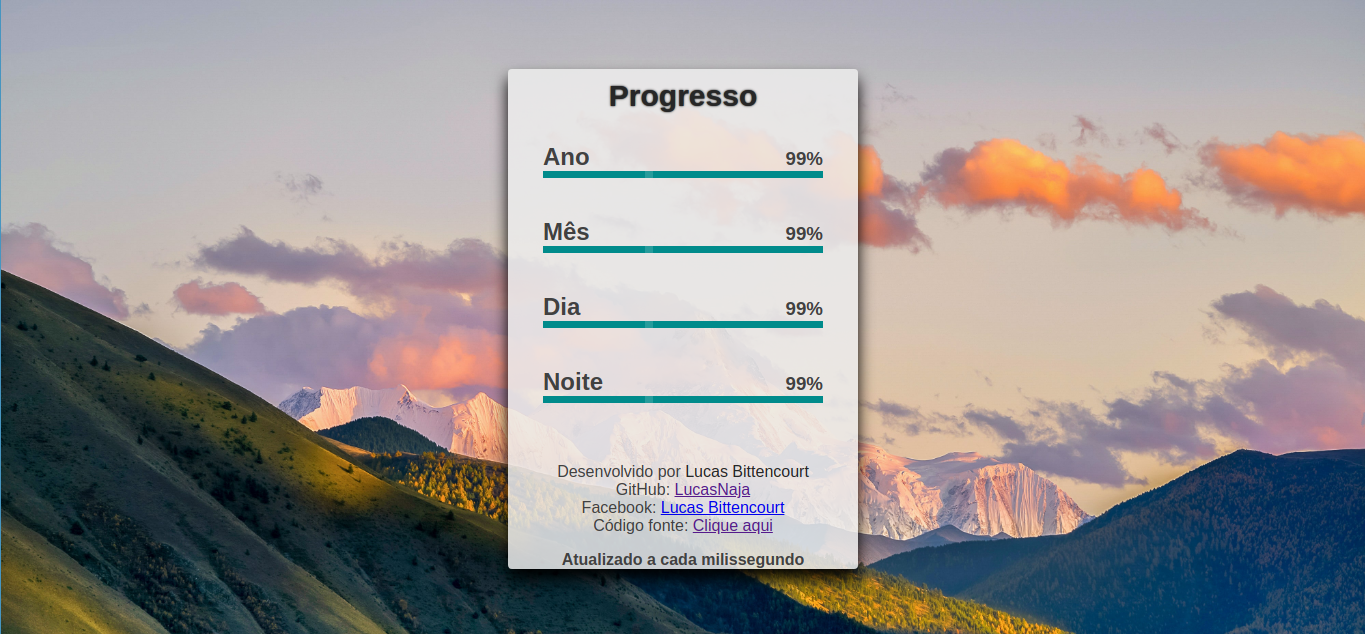
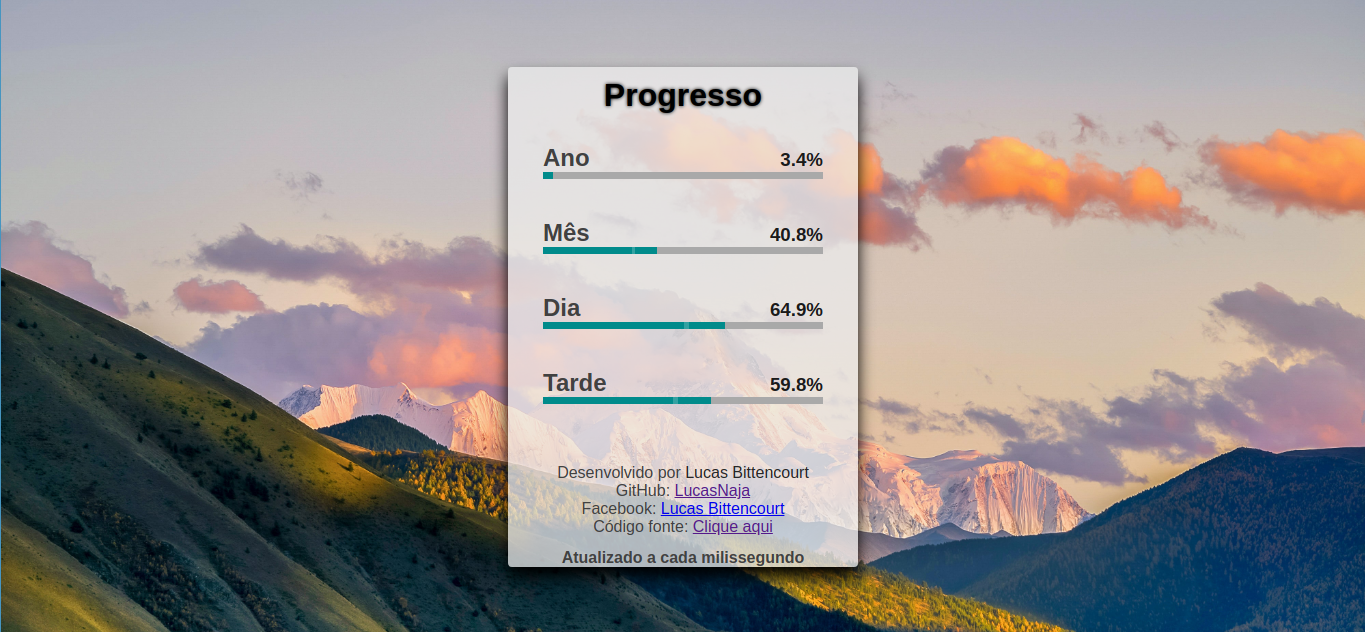
improvements

diff --git a/src/styles.css b/src/styles.css
@@ -1,12 +1,23 @@
+/* GENERAL
+**************************/
 html, body {
   width: 100%;
   font-family: Arial, Helvetica, sans-serif;
   height: 100%;
   overflow: hidden;
   background-color: rgb(237, 237, 237);
-  min-width: 320px
+  min-width: 320px;
+  background-image: url('../images/background.jpg');
+  background-size: cover;
+  background-repeat: no-repeat
 }
 
+html, body, h1, h2, h3, h4, p { margin: 0 }
+h1, h2, .progress, .progressContainer { position: relative }
+h1, p, h4 { text-align: center }
+
+/* RING
+**************************/
 .lds-ring {
   z-index: 1;
 	left: 50%;
@@ -34,25 +45,23 @@ html, body {
 
 @keyframes lds-ring { from { transform: rotate(0deg) } to { transform: rotate(360deg) } }
 
-html, body, h1, h2, h3, h4, p { margin: 0 }
-h1, h2, .progress, .progressContainer { position: relative }
-h1, p, h4 { text-align: center }
-
+/* PROGRESS
+**************************/
 .progressContainer {
   display: none;
   width: 100%;
   min-height: 100%;
-  background-color: rgb(237, 237, 237);
+  background-color: rgba(237, 237, 237, .75);
   transition: all .25s;
   color: rgb(65, 65, 65);
   overflow-y: auto
 }
 
 .progressContainer h1 {
-  font-size: 30px;
+  color: black;
+  font-size: 32px;
   top: 10px;
-  text-shadow: 0 0 2px black;
-  color: rgb(39, 39, 39)
+  text-shadow: 0 0 5px black
 }
 
 .progress {
@@ -66,7 +75,7 @@ h1, p, h4 { text-align: center }
 .progressBar {
   width: 100%;
   height: 7px;
-  background-color: #ccc
+  background-color: darkgray
 }
 
 .progressBarValue {
@@ -80,7 +89,7 @@ h1, p, h4 { text-align: center }
   position: relative;
   width: 3%;
   height: 100%;
-  background-color: rgba(255, 255, 255, .15);
+  background-color: rgba(255, 255, 255, .2);
   animation: effect 1.5s linear infinite
 }
 
@@ -89,6 +98,7 @@ h1, p, h4 { text-align: center }
 @keyframes effect { 0% { left: 0 } to { left: calc(97%) } }
 
 .progressContainer h3 {
+  color: rgb(26, 26, 26);
   margin-left: 2px;
   position: absolute;
   right: 0;
@@ -98,12 +108,6 @@ h1, p, h4 { text-align: center }
 p { margin-top: 43px }
 
 @media (min-width: 400px) {
-  body {
-    background-image: url('../images/background.jpg');
-    background-size: cover;
-    background-repeat: no-repeat
-  }
-  
   p { margin-top: 60px }
 
   .progressContainer {
@@ -113,11 +117,8 @@ p { margin-top: 43px }
     box-shadow: 0 10px 25px black;
     border-radius: 4px;
     width: 300px;
-    min-height: 0;
-    background-color: rgba(237, 237, 237, .85)
+    min-height: 0
   }
-  
-  .progressBar { background-color: darkgray }
 }
 
 @media (min-width: 500px) { .progressContainer { width: 350px } }

diff --git a/src/scripts.js b/src/scripts.js
@@ -25,7 +25,7 @@ function updateProgress() {
 
   if (yearProgress === 0) alert('Feliz ano novo!')
 
-  year.textContent = `${Math.floor(yearProgress)}%`
+  year.textContent = `${change(yearProgress)}%`
   year.setAttribute('title', `${yearProgress}%`)
   progressBar[0].style.width = `${yearProgress}%`
 
@@ -37,13 +37,13 @@ function updateProgress() {
     return sum / months[date.getMonth()] * 100
   })()
 
-  month.textContent = `${Math.floor(monthProgress)}%`
+  month.textContent = `${change(monthProgress)}%`
   month.setAttribute('title', `${monthProgress}%`)
   progressBar[1].style.width = `${monthProgress}%`
 
   dayProgress = ((date.getHours() + date.getMinutes() / 60 + date.getSeconds() / 3600) / 24) * 100
 
-  day.textContent = `${Math.floor(dayProgress)}%`
+  day.textContent = `${change(dayProgress)}%`
   day.setAttribute('title', `${dayProgress}%`)
   progressBar[2].style.width = `${dayProgress}%`
 
@@ -64,9 +64,13 @@ function updateProgress() {
     return (date.getHours() - num + date.getMinutes() / 60 + date.getSeconds() / 3600) / 6 * 100
   })()
 
-  workDay.textContent = `${Math.floor(workDayProgress)}%`
+  workDay.textContent = `${change(workDayProgress)}%`
   workDay.setAttribute('title', `${workDayProgress}%`)
   progressBar[3].style.width = `${workDayProgress}%`
+}
+
+function change(number = Number) {
+  return `${Math.floor(number)}.${number.toString().includes('.') ? number.toString().split('.')[1][0] : 0}`
 }
 
 window.onload = function () {
